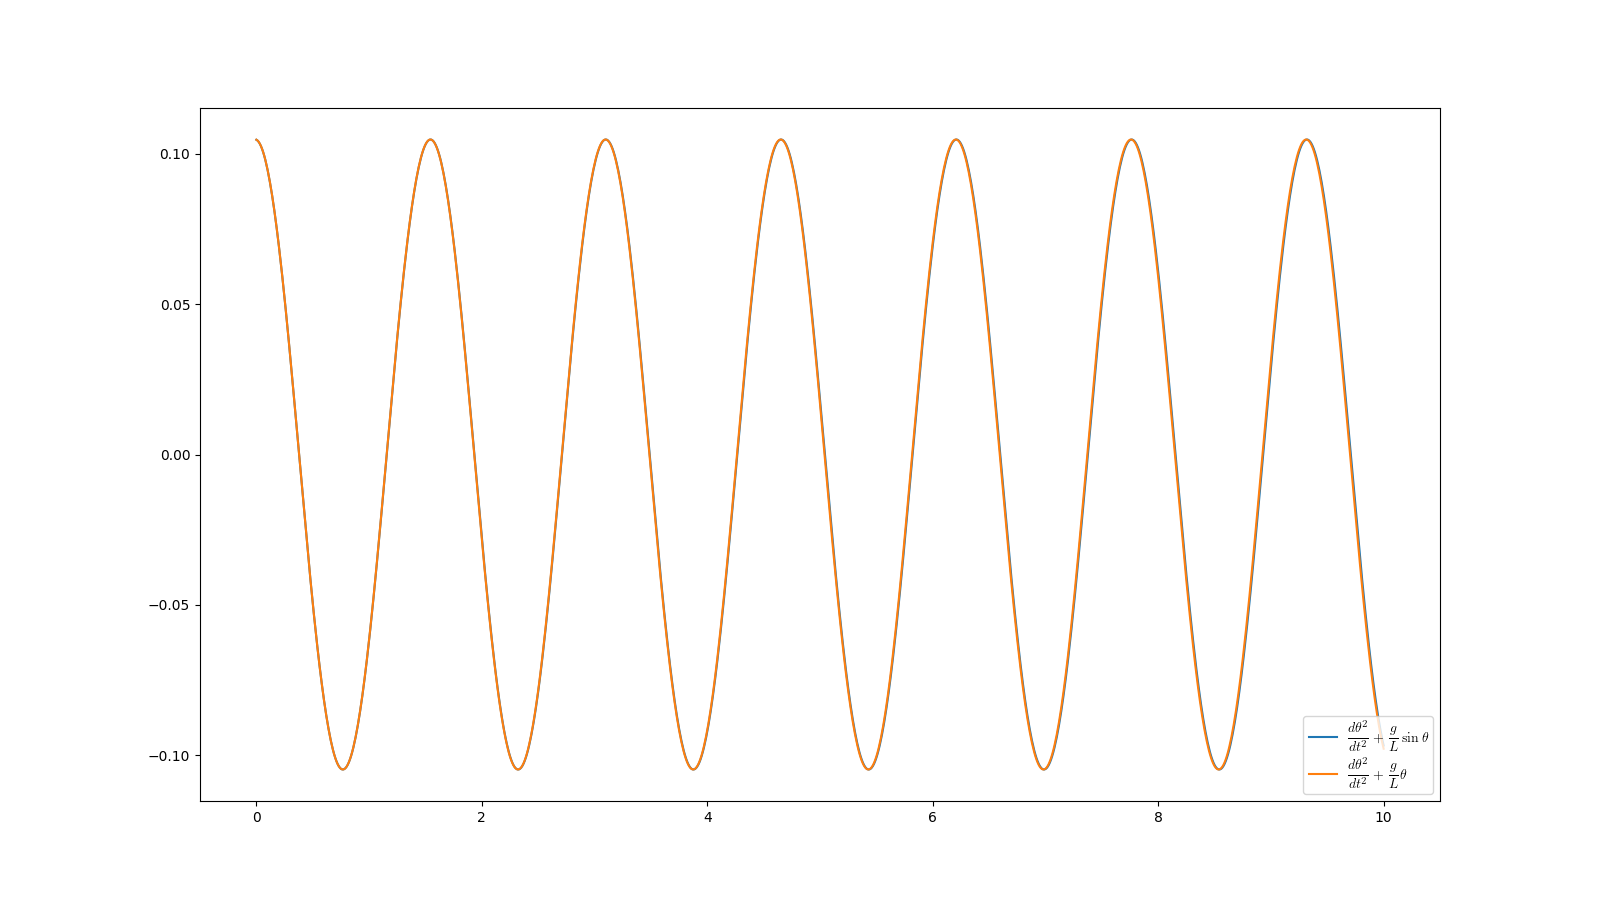
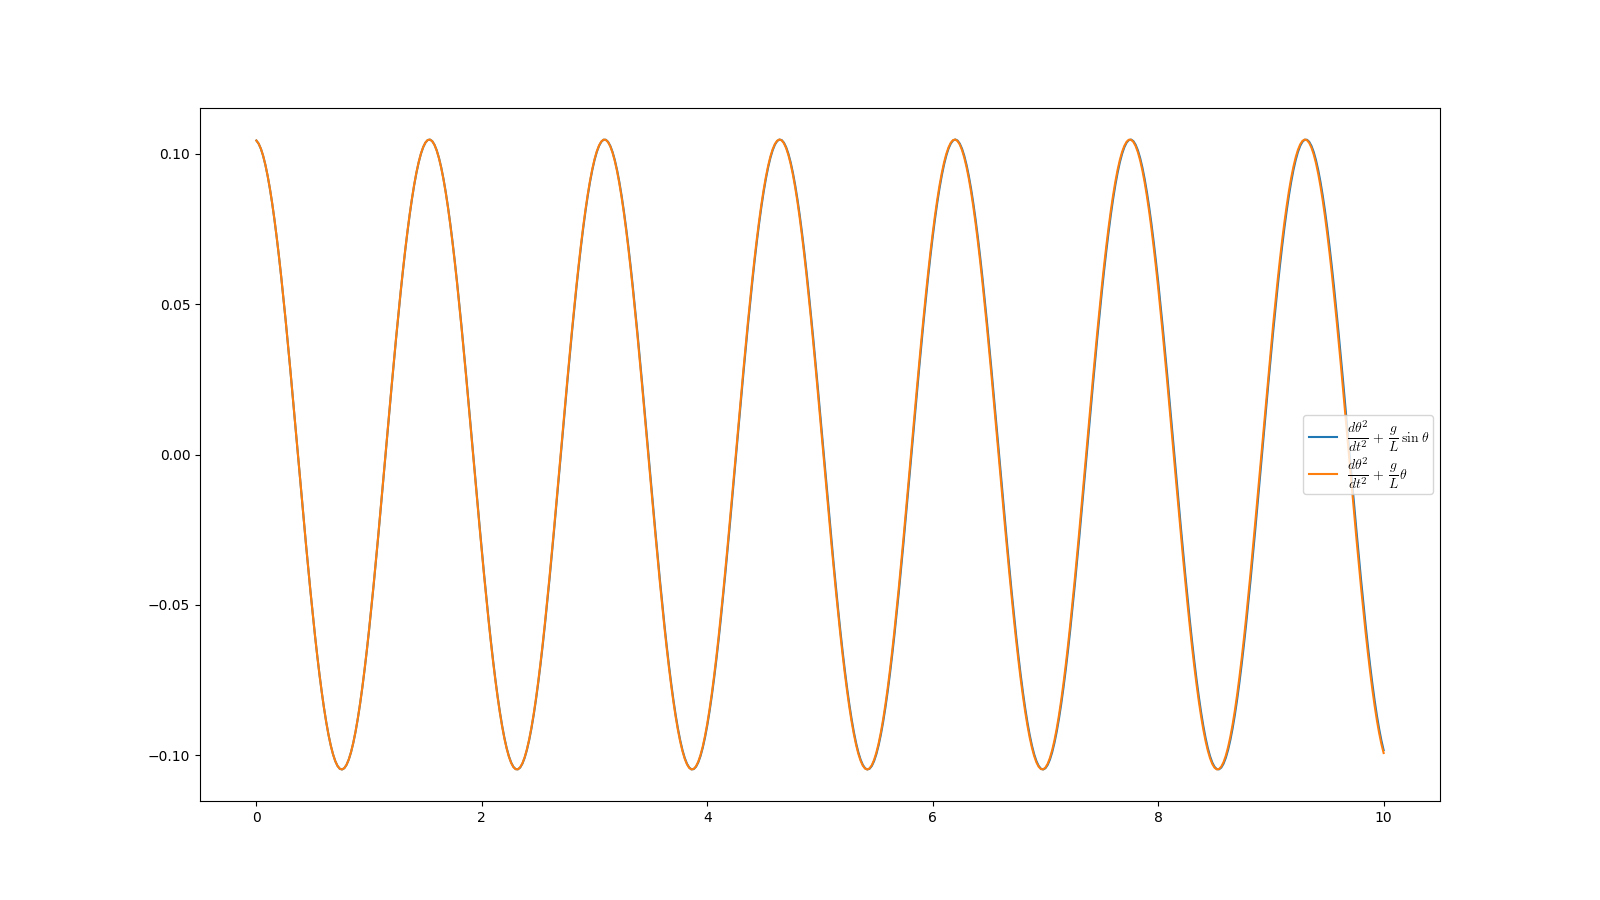
update pendulum

diff --git a/buoi_4_1010/pendulum.py b/buoi_4_1010/pendulum.py
@@ -41,20 +41,15 @@ def solve_sys_ode(fArr1, fArr2: npt.NDArray, a: float, b: float, h: float, solve
     small = []
     yn = np.zeros(2)
     yn1 = np.zeros(2)
-    yn[0] = pi / 30
-    yn1[0] = pi / 30
+    yn[0] = pi / 6
+    yn1[0] = pi / 6
     yn[1] = 0
     yn1[1] = 0
     t = np.arange(a, b + h, h)
     for j in range(N + 1):
         yn = solver(fArr1, t, yn, h)
         big.append(yn)
-        # if yn[0] > 1:
-        #    yn = solver(fArr1, times, yn, h)
-        #    y.append(yn)
-        # if yn[0] <= 1:
-        #    yn = solver(fArr2, times, yn, h)
-        #    y.append(yn)
+
     for i in range(N + 1):
         yn1 = solver(fArr2, t, yn1, h)
         small.append(yn1)
@@ -100,7 +95,7 @@ def saveLog(file, t, big_theta, small_theta):
 
 def main():
 
-    N = 50
+    N = 500
     t0 = 0
     tn = 10
 
